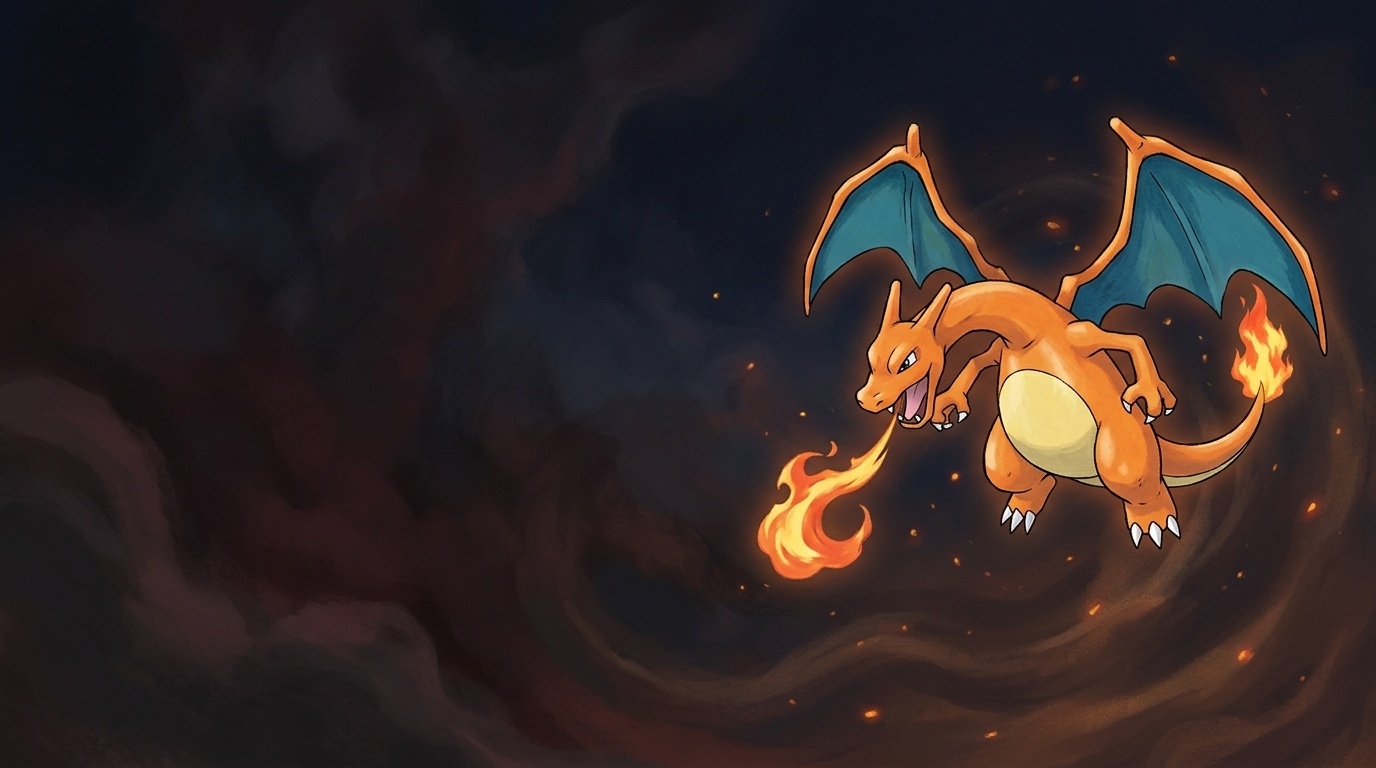
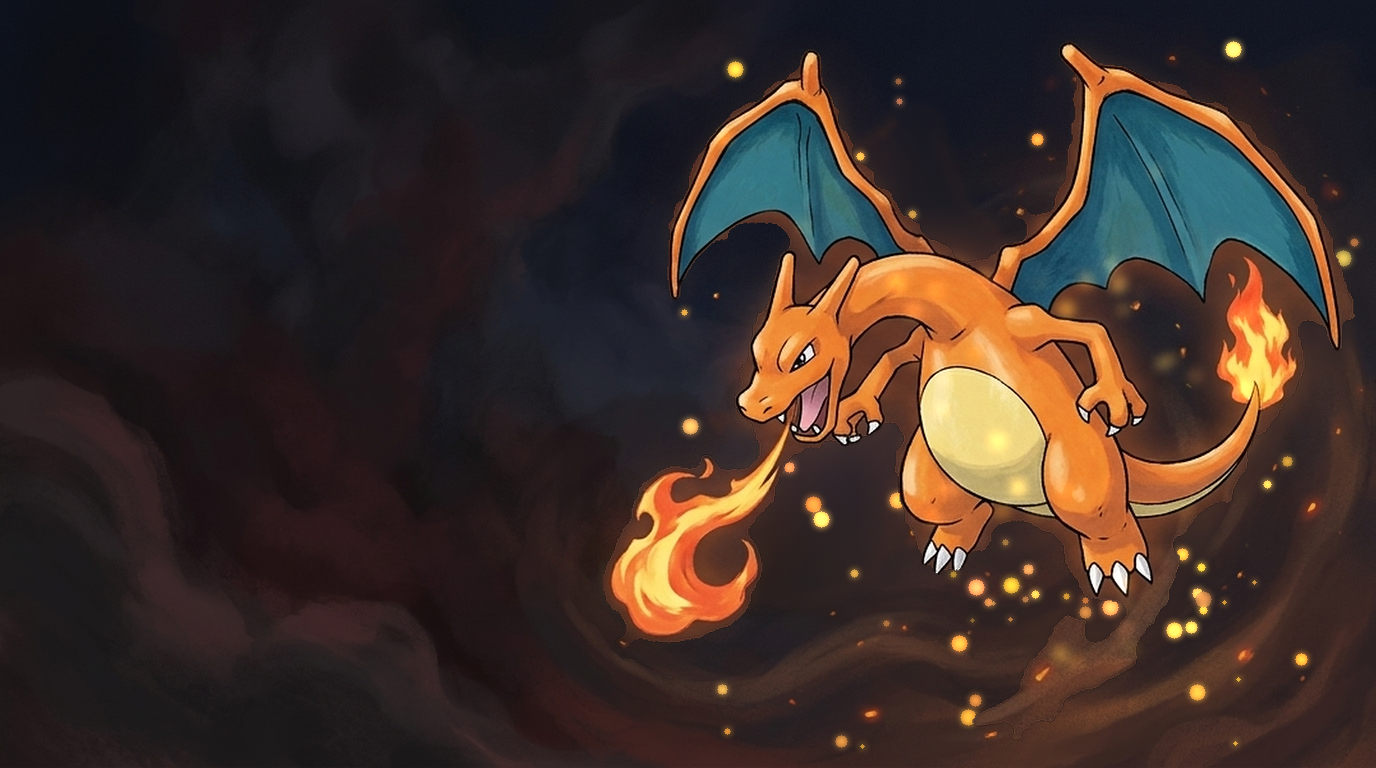
47 cards: 20 new games, FireRed redone
New: Advance Guardian Heroes, Astro Boy - Omega Factor, Castlevania - Circle
of the Moon, Dragon Ball - Advanced Adventure, Dragon Ball Z - Buu's Fury,
Dragon Ball Z - The Legacy of Goku II, Final Fantasy V Advance, Gunstar Super
Heroes, Kirby & The Amazing Mirror, Zelda - A Link to the Past & Four Swords,
Mario Kart - Super Circuit, Mario & Luigi - Superstar Saga, Mega Man Battle
Network 3 Blue, Mega Man Zero 2, Pokemon - Heart & Soul, Sonic Advance 3,
Super Mario Advance 2, Super Mario Advance 3, WarioWare - Twisted!, and
WarioWare, Inc. - Mega Microgame$!.

Pokemon FireRed's master is redone. PROMPT.md drops the per-image notes from
the first regeneration round. Three names used "_" where No-Intro has "&" and
would never have matched a ROM by filename; renamed.

diff --git a/PROMPT.md b/PROMPT.md
@@ -12,16 +12,14 @@ twelve images. It reads as a letterbox bar or a UI panel rather than as
 artwork. The emulator can draw that scrim itself in code, as a true gradient,
 so the art must NOT contain one.
 
-**2. KEEP the framing consistent.** I initially called the repetition a fault.
-It is not — it is the point. A fixed relationship between the subject and the
+**2. KEEP the framing consistent.** A fixed relationship between the subject and the
 frame means the title always lands in the same place relative to the art, the
 composition does not jump while scrolling, and 100 covers read as one designed
 system instead of a scrapbook. Every platform UI enforces a rigid art spec for
 exactly this reason. The consistency stays.
 
 **3. Match the game's own tone.** Most were right — Mother 3's sunflowers,
-Battle Network's neon grid, Minish Cap's forest. Advance Wars 2 was not: a
-grim grey battlefield for a bright, comedic, cartoon-military game.
+Battle Network's neon grid, Minish Cap's forest.
 
 ---
 
@@ -101,17 +99,6 @@ DO NOT
 No text. No borders, vignette frames or bars. No collage or panels. No UI
 mockups. No logos. No watermarks.
 ```
-
----
-
-## Per-image notes for the regenerations
-
-| Image | Verdict | What to ask for |
-|---|---|---|
-| **Advance Wars 2** | regenerate | Bright daylight, saturated, cartoon-military. Cheerful cel-shaded cast, on-model — round friendly faces, not realistic anime. Blue sky with clouds, green terrain. Remove the tall dark machine that isn't in the source. |
-| **Pokémon Emerald** | regenerate | The re-staging was the right call — the source has Rayquaza dead centre and it could not have been extended. The fault is CONTRAST, not size: it has receded into the clouds and gone muddy. Keep it the same scale and position; make it read clearly — brighter green, cleaner silhouette, more separation from the sky behind it. |
-| **Minish Cap** | regenerate | Link is small and sits in the bottom band. Make him ~30% larger and higher — matching the subject scale the other images use, not exceeding it. Keep the forest and the cel-shaded style, they are right. |
-| **All other 9** | keep, re-run only for the band | Composition and tone are good. Only regenerate to remove the bottom bar. |
 
 ## Installing
 

diff --git a/README.md b/README.md
@@ -3,7 +3,7 @@
 # GBAdhoc Hero Art
 
 Full-screen artwork for the [GBAdhoc](https://github.com/ShoshinFauteux/GBAdhoc) game
-browser. 27 cards so far, plus everything you need to make your own.
+browser. 47 cards so far, plus everything you need to make your own.
 
 ### [⬇ Download the pack](https://github.com/ShoshinFauteux/GBAdhoc-heroart/releases/latest)
 
@@ -43,7 +43,7 @@ know.
 
 ## Building the pack from source
 
-The 27 originals are in `masters/` at 1376x768. Everything else is generated:
+The 47 originals are in `masters/` at 1376x768. Everything else is generated:
 
 ```
 python build.py           masters -> build/
